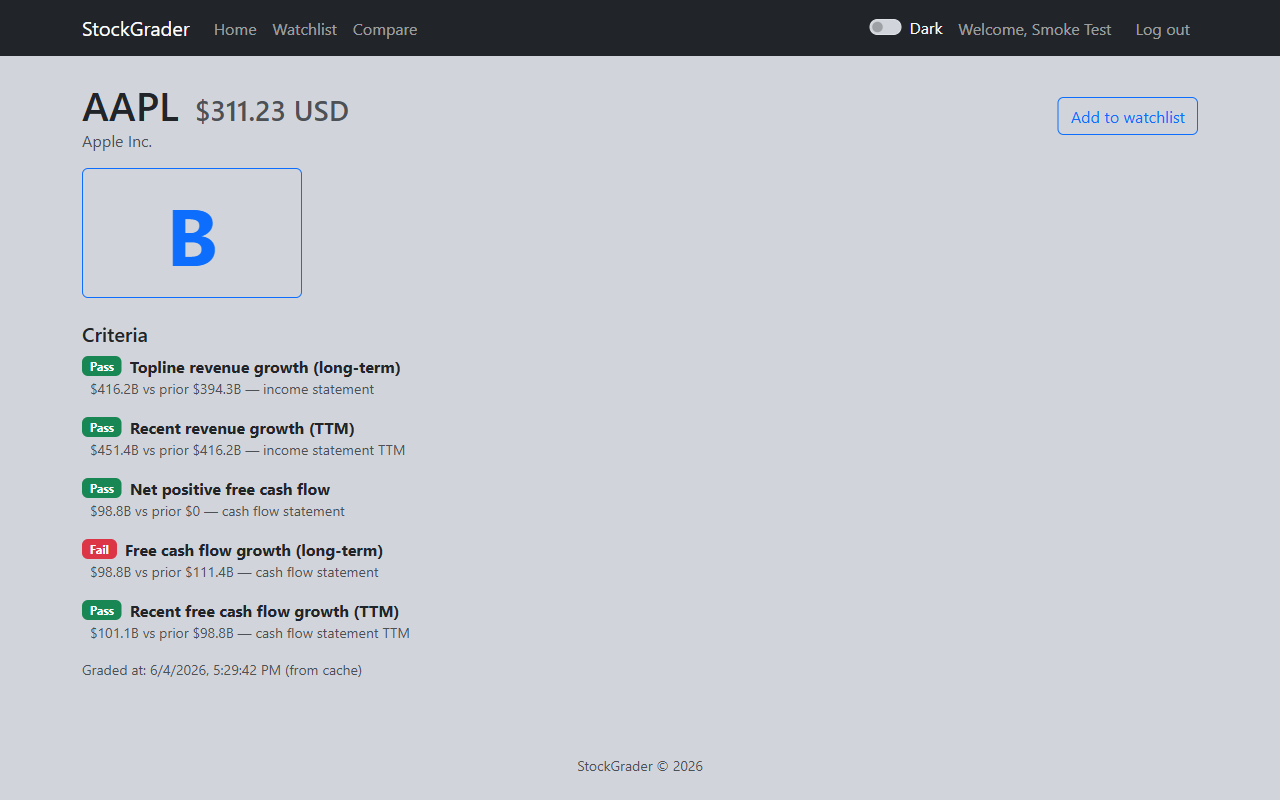
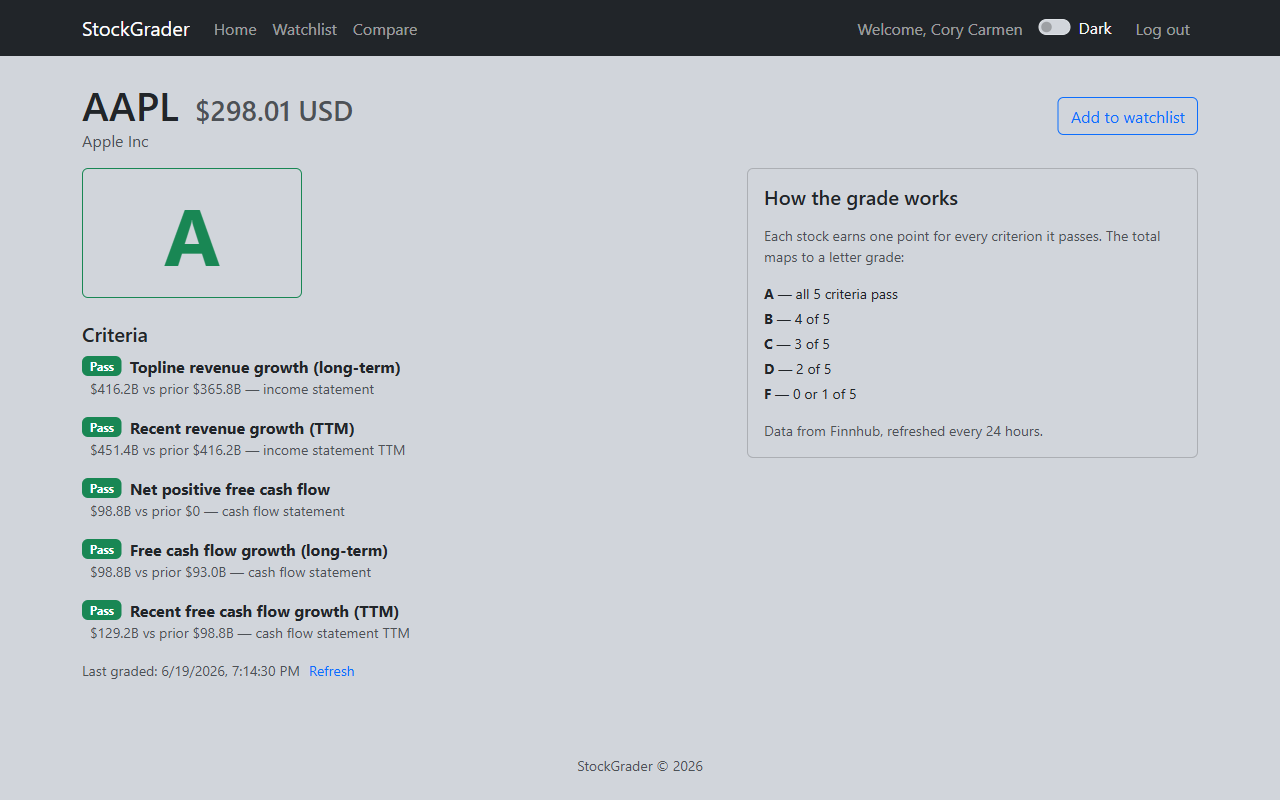
Update the Grade Detail screenshot in the devlog to match the current UI

diff --git a/docs/devlog.md b/docs/devlog.md
@@ -222,7 +222,7 @@ Home page on the live app — search box on the left, "About StockGrader" card b
 
 ![Home page on the live app](./images/home-logged-in.png)
 
-Grade Detail for AAPL — canonical ticker, share price + currency, company name, big letter grade, and the 5-criterion checklist with the actual numbers used:
+Grade Detail for AAPL — canonical ticker, share price + currency, company name, big letter grade, and the 5-criterion checklist with the actual numbers used. A "How the grade works" card explains the A–F scale, and a "Last graded" timestamp offers an on-demand Refresh:
 
 ![Grade Detail for AAPL on the live app](./images/grade-aapl.png)
 
